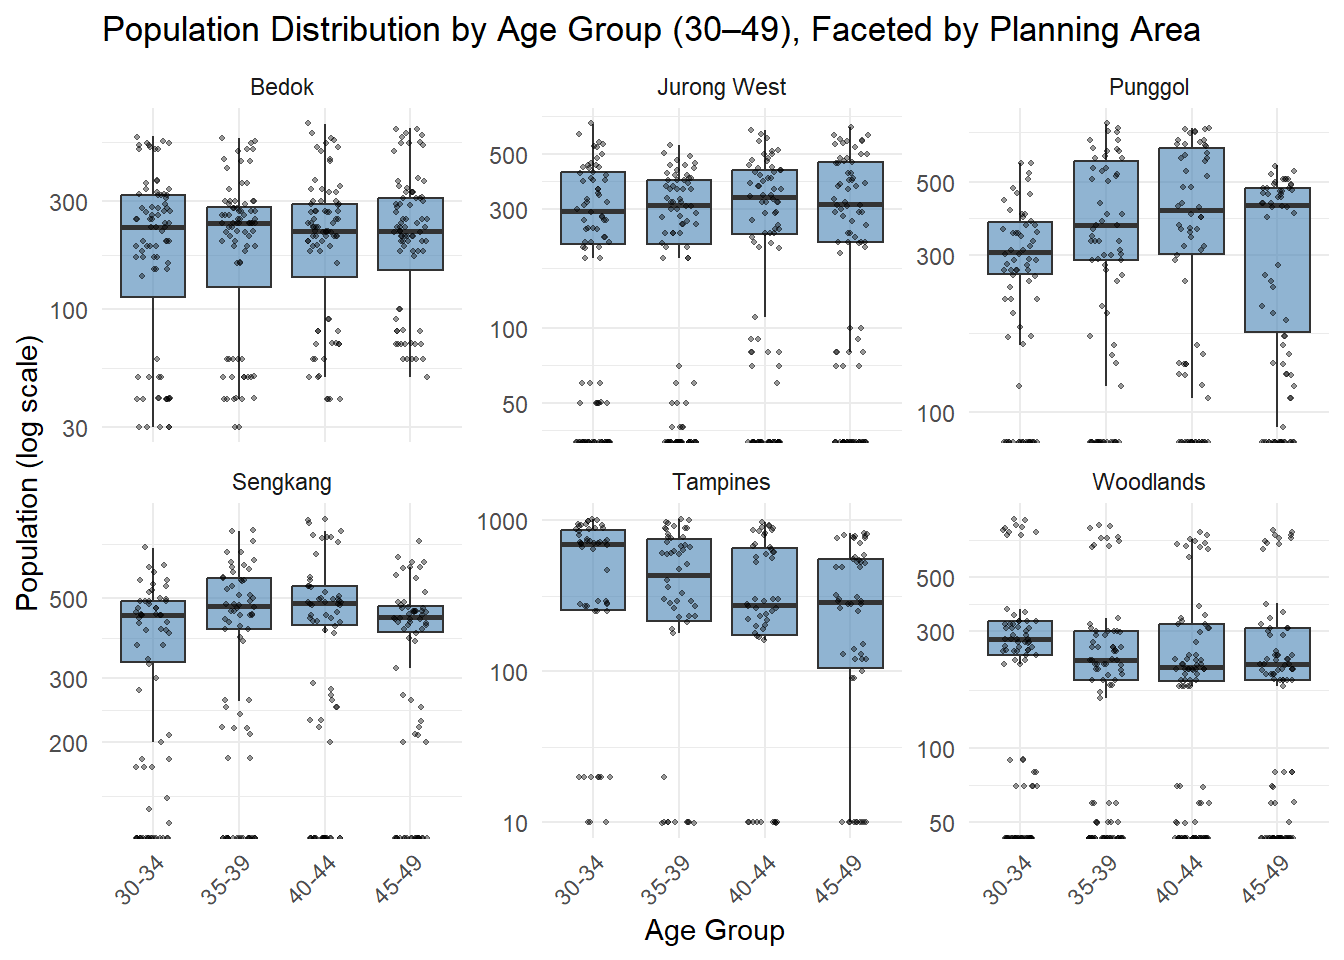
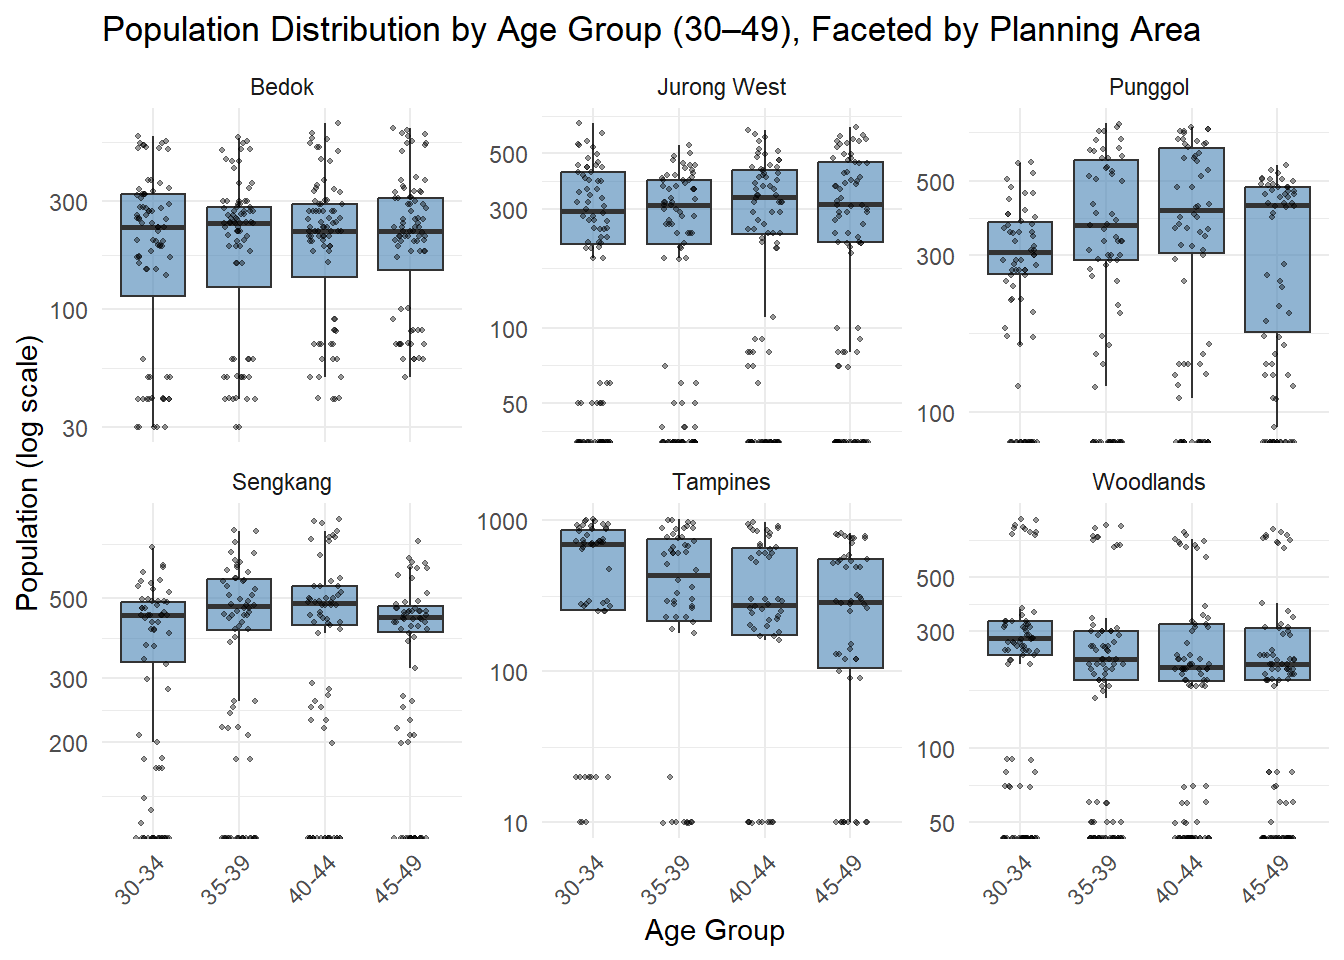
Commit Take-home Ex01 Part 2 - rendering change

diff --git a/_site/Take-home_Ex/Take-home_Ex01/Take-home_Ex01.2.html b/_site/Take-home_Ex/Take-home_Ex01/Take-home_Ex01.2.html
@@ -290,7 +290,7 @@ pre > code.sourceCode > span > a:first-child::before { text-decoration: underlin
 
 <section id="introduction" class="level1" data-number="1">
 <h1 data-number="1"><span class="header-section-number">1</span> Introduction</h1>
-<p>This page presents a visualisation critique and redesign based on a submission by my course-mate, XU XINYI, for the third exploratory data analysis task (EDA 3). The original plot titled <em>“Box Plot with Data Superimposed – Population by Age Group (30–49), Across Planning Areas (2024)”</em> used faceted box plots to visualize population distribution across six major planning areas in Singapore.</p>
+<p>This page presents a visualisation critique and redesign based on a submission by my course-mate, <a href="https://xinyixu.netlify.app/take-home_exercise/take-home_ex01/take-home_exercise01">XU XINYI</a>, for the third exploratory data analysis task (EDA 3). The original plot titled <em>“Box Plot with Data Superimposed – Population by Age Group (30–49), Across Planning Areas (2024)”</em> used faceted box plots to visualize population distribution across six major planning areas in Singapore.</p>
 </section>
 <section id="getting-started" class="level1" data-number="2">
 <h1 data-number="2"><span class="header-section-number">2</span> <strong>Getting started</strong></h1>
